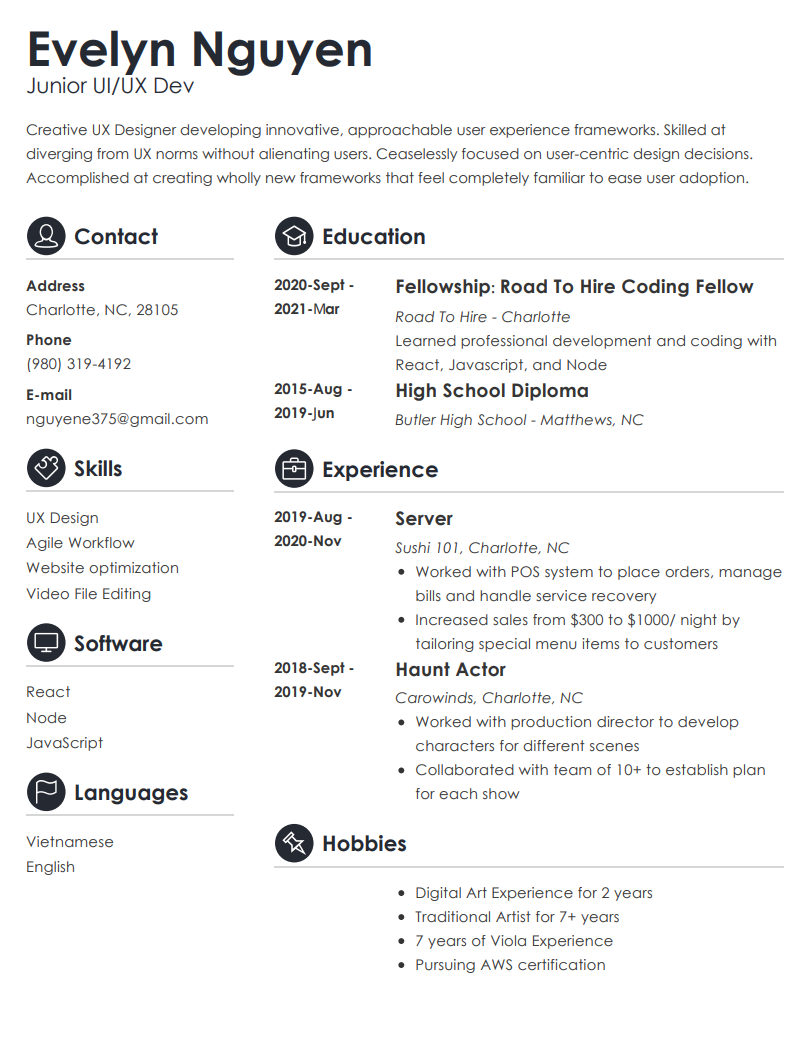
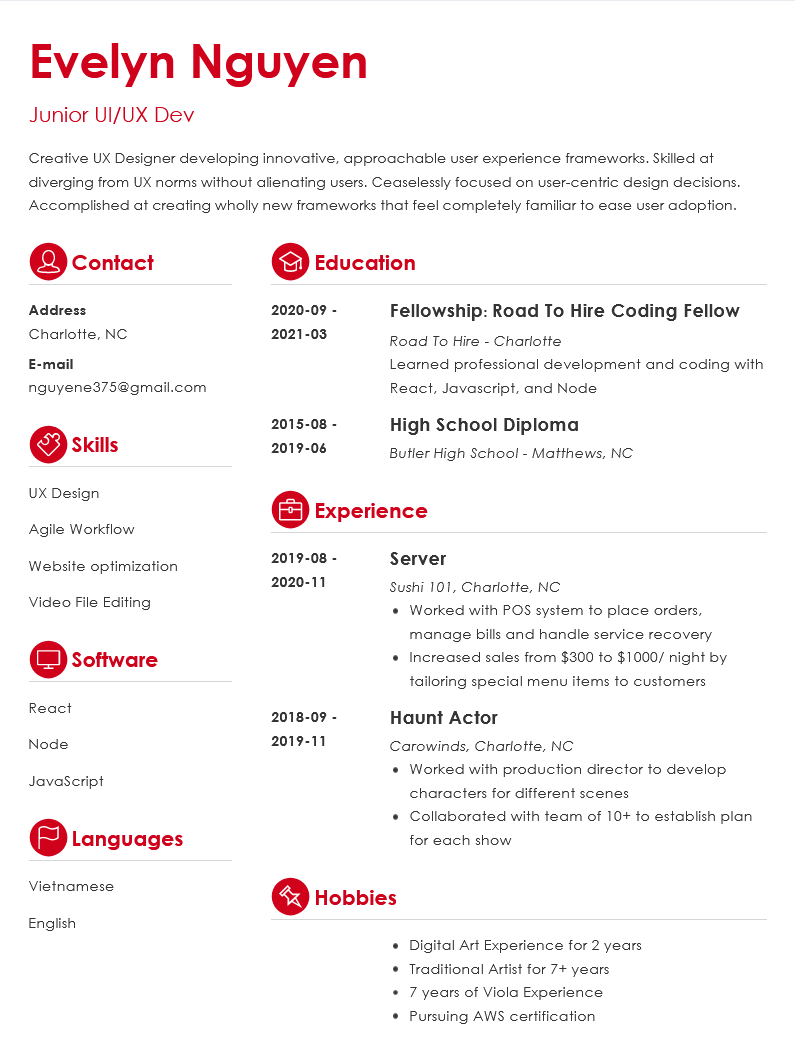
fixed buttons, added gateway project

Changed region(s): [[0.0302, 0.0304, 0.966, 0.9743], [0.3321, 0.6089, 0.4226, 0.7003]]

diff --git a/index.html b/index.html
@@ -69,9 +69,9 @@
         <br/>
         <br/>
         <div class="col-lg-6 col-lg-offset-3">
-          <p>I'm an aspiring UI/UX Developer.</p>
-          <p>One thing I bring, is a comfortable familiarity to my design.</p>
-          <p>A little bit more about my interests: I build computers, skateboard and play video games!</p>
+          <p>I'm Evelyn Nguyen, and I'm an aspiring UI/UX Developer.</p>
+          <p> I've always loved the concept of seeing the steps of building an effective website/app. </p>
+          <p>A little bit more about my interests: I build computers, ride skateboards and play video games!</p>
           <p>Feel free to contact me <a href= "mailto:nguyene375@gmail.com">contact me</a> about any questions you might have.</p>
         </div>
       </div>
@@ -98,7 +98,7 @@
                           <img class="pic-1" src="img/img1.png">
                       </a>
                       <ul class="product-links">
-                        <li><p>ecommerce project created in react.</p></li>
+                        <li><p>Ecommerce project created in react.</p></li>
                           <li><a href="https://github.com/Kagruma/EcommerceReact/tree/main/products">github</i></a></li>
                           <li><a href="https://lamianregalia.netlify.app/">live build</a></li>
                           
@@ -118,14 +118,14 @@
                           <img class="pic-1" src="img/img2.png">
                       </a>
                       <ul class="product-links">
-                        <li><p>number guessing game that uses your microphone.</p></li>
-                          <li><a href="https://github.com/Kagruma/EcommerceReact/tree/main/products">github</a></li>
-                          <li><a href="#">live build</a></li>
+                        <li><p>The first wesbite I made using HTML & CSS.</p></li>
+                          <li><a href="https://github.com/Kagruma/gateway">github</a></li>
+                          <li><a href="https://gatewayeve.netlify.app/">live build</a></li>
                       
                       </ul>
                   </div>
                   <div class="product-content">
-                      <h3 class="title">Number Guessing game</h3>
+                      <h3 class="title">Semantic HTML and CSS site</h3>
                   </div>
               </div>
           </div>
@@ -136,7 +136,7 @@
                         <img class="pic-1" src="img/img3.png">
                     </a>
                     <ul class="product-links">
-                      <li><p>lightweight budgeting app using JavaScript.</p></li>
+                      <li><p>Lightweight budgeting app using JavaScript.</p></li>
                         <li><a href="https://github.com/Kagruma/budgetify">github</i></a></li>
                         <li><a href="https://lamianregalia.netlify.app/">live build</a></li>
                         
@@ -156,7 +156,7 @@
                         <img class="pic-1" src="img/img4.png">
                     </a>
                     <ul class="product-links">
-                      <li><p>weather app built during a hackathon using OpenweatherAPI.</p></li>
+                      <li><p>Weather app built during a hackathon using OpenweatherAPI.</p></li>
                         <li><a href="https://github.com/Kagruma/EcommerceReact/tree/main/products">github</a></li>
                         <li><a href="https://kagruma.github.io/sunnyskiesapp/">live build</a></li>
                     

diff --git a/css/style.css b/css/style.css
@@ -32,7 +32,7 @@ p {
 /* Link styling :o */
 
 a {
-  color: rgb(148, 21, 21);
+  color: rgb(255, 64, 64);
   word-wrap: break-word;
   -webkit-transition: color 0.1s ease-in, background 0.1s ease-in;
   -moz-transition: color 0.1s ease-in, background 0.1s ease-in;
@@ -152,6 +152,7 @@ hr {
   display: block;
   max-width: 500px;
   bottom: 0%;
+  width: 100%;
 }
 
 /* nav bar stuff*/
@@ -209,10 +210,12 @@ hr {
   line-height: 40px;
   letter-spacing: 0.1em;
   text-transform: uppercase;
+  text-decoration: none;
 }
 
 .menu a:hover {
-  color: rgb(148, 21, 21);
+  color: rgb(255, 64, 64);
+  text-decoration: underline;
 }
 
 .menu a:active {
@@ -289,7 +292,7 @@ hr {
   display: block;
   text-align: center;
   font-size: 20px;
-  color: rgb(148, 21, 21);
+  color: rgb(255, 64, 64);
   width: 40px;
   height: 40px;
   line-height: 40px;
@@ -363,7 +366,7 @@ hr {
     color: #fff;
     line-height: 50px;
     height: 50px;
-    width: 100px;
+    width: 250px;
     border: 1px solid #fff;
     display: inline-block;
     transition: all .2s ease-in-out .1s;
@@ -374,7 +377,7 @@ hr {
 
 
 .product-grid .product-links li a:hover{
-    background: rgb(148, 21, 21);
+    background: rgb(255, 64, 64);
     border: 1px solid #bf3d3e;
     
 }
@@ -388,7 +391,7 @@ hr {
     
 }
 .product-grid .title a{
-    color: rgb(148, 21, 21);
+    color: rgb(255, 64, 64);
     transition: all 0.3s ease 0s;
     text-decoration: none;
 }
@@ -432,7 +435,7 @@ hr {
 }
 
 #footerstuff a {
-  color: rgb(148, 21, 21);
+  color: rgb(255, 64, 64);
 }
 
 #footerstuff a:hover {
